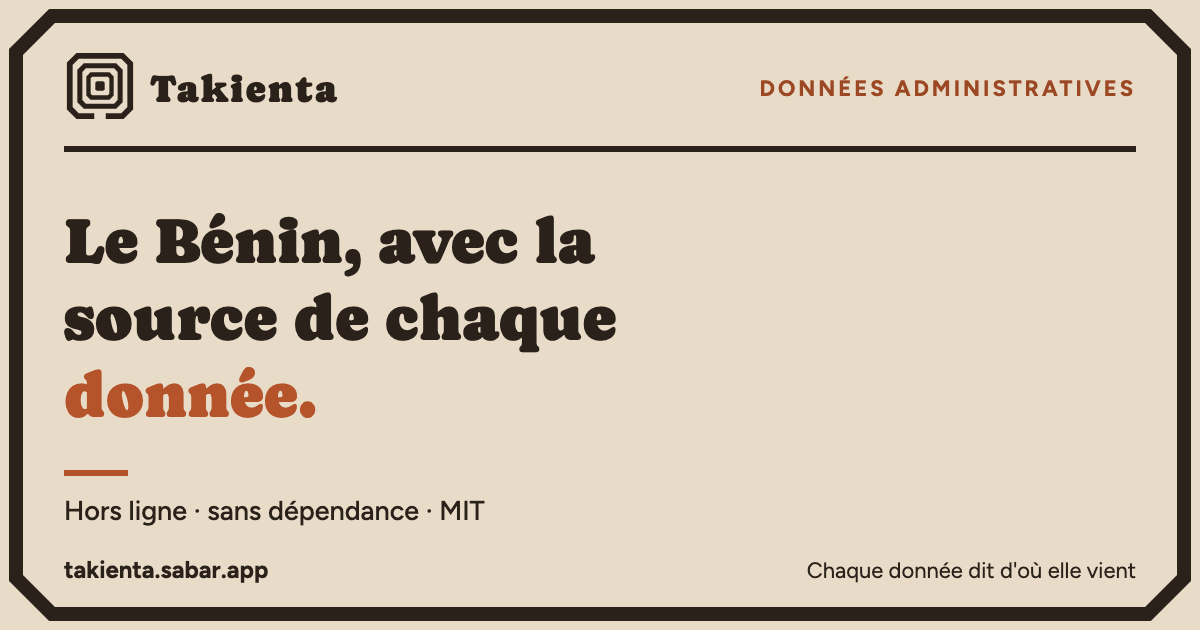
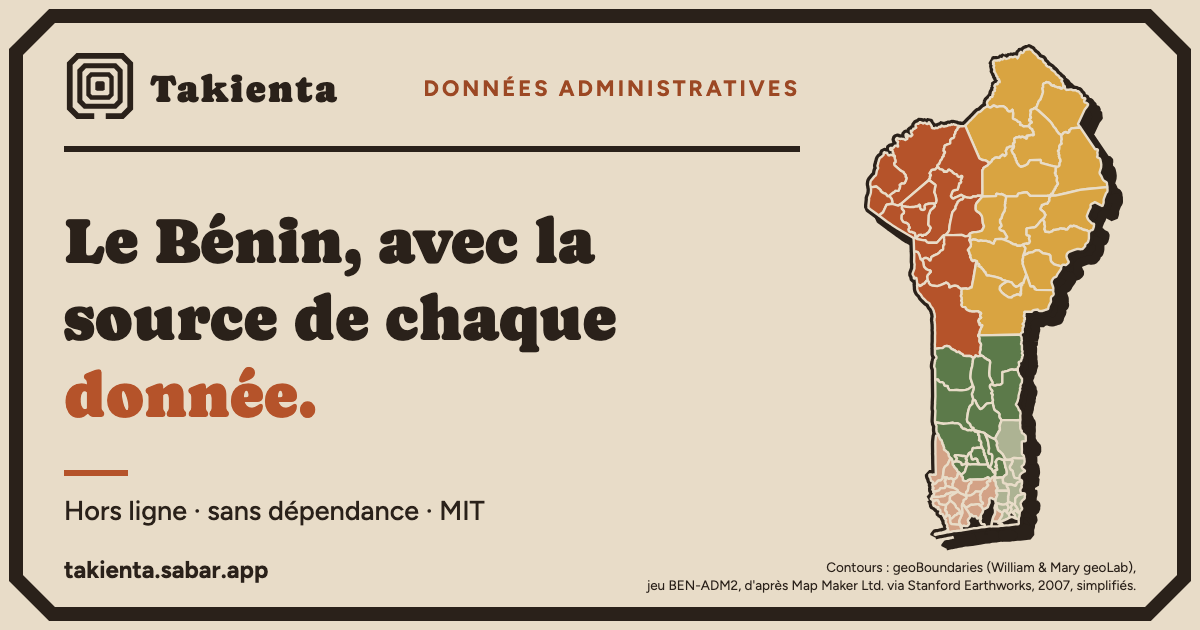
feat(site): la carte des communes colorées par pôle dans les vignettes de partage de l'accueil et de /carte
Mur épais et ombre pleine, attribution des contours écrite dans l'image. Le script de capture supprime
désormais le PNG avant de le rendre : un ancien fichier stable passait pour le nouveau.

Changed region(s): [[0.3392, 0.0603, 0.9558, 0.9349]]

diff --git a/AGENTS.md b/AGENTS.md
@@ -206,6 +206,9 @@ Elodias, hors du dépôt.
   Akpo-Misserete = Akpro-Missérété) : rapprochement écrit dans `source-communes.json`, le script échoue si une
   commune manque ou se répète. Des tracés dont l'origine est inconnue (ceux d'un autre projet) ne se publient pas.
   Les pôles y sont colorés avec le statut provisoire toujours affiché.
+  Les vignettes de partage de l'accueil et de `/carte` montrent aussi cette carte (`site/og.mjs`, option `carte`) : son
+  attribution est écrite dans l'image et testée. `scripts/chrome.mjs` supprime le PNG avant la capture, sinon un ancien
+  fichier stable passe pour le nouveau rendu.
 - **Provenance** : la section « tour » (`#pile`) est un défilement narratif en CSS seul (`view-timeline`,
   sous `@supports` et seulement au-dessus de 820 px). Son texte vient de `niveaux` dans `site/pages/provenance.mjs`,
   donc de `data/` : ne pas y écrire de fait à la main. L'image de la maison est celle du projet, pas une affirmation
